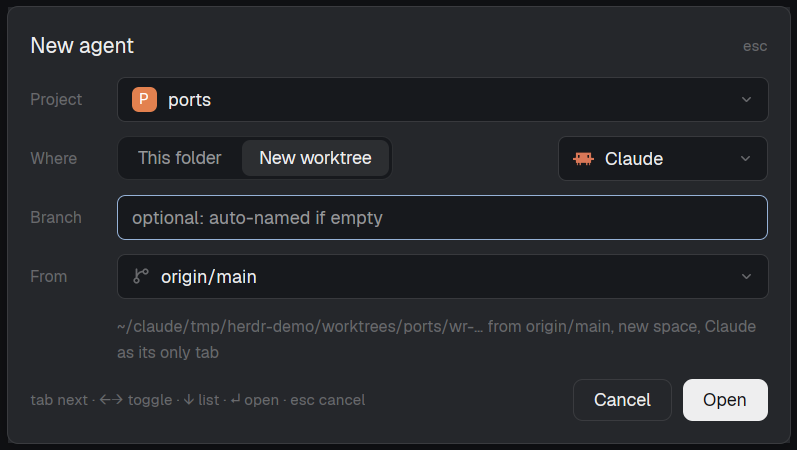
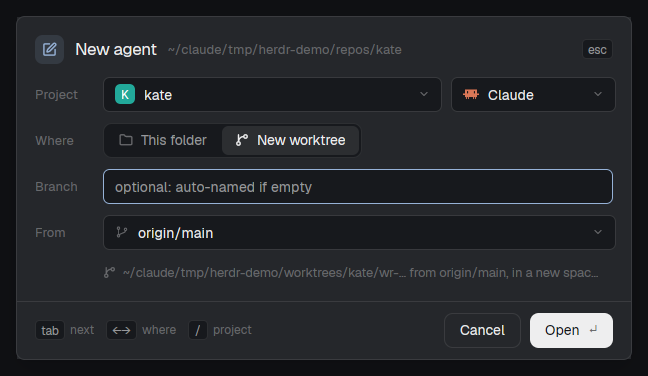
Docs: new screenshots and descriptions for the redesigned sidebar and popups
New preview.png (the gif is gone), sidebar search and progress screenshots, retaken menus, dialogs, switcher and agents list. README, RECIPE, getting-started and reference describe the search row, agent cards, progress checklist, switcher and peek keys. New card description.

diff --git a/RECIPE.md b/RECIPE.md
@@ -1,6 +1,6 @@
 # wrangler
 
-A keyboard-first Herdr layout for running coding agents across your repos. Prefix keys like tmux and the herdr TUI, plus projects: start an agent in any project, in its own worktree if you want.
+T3 Code style agent threads for Herdr, built on Herdr's own spaces. Working agents keep going in the background while the ones that need you rise to the top. Save spaces as projects, search and hop between them, and flip to any agent with a quick switcher. Prefix key bindings for anyone who loved the herdr TUI or tmux.
 
 ![wrangler](preview.png)
 
@@ -10,14 +10,15 @@ Left to right, a row on the `canvas` background, no title bar (`"titlebar": "non
 
 **Sidebar**, 342px (min 44, max 480, not resizable), background `chrome`, a column:
 
-1. **Brand**, 46px: the shipped `workspace-chrome` mod, drags the window.
-2. **Spaces** (weight 0.854, min 90). A 31px header: "Spaces" at 11.5px `dim`, a 26px `+` button on the right. Rows 30px, rounded 8, `selected` when active, `hover` otherwise. Each row: an 18px avatar (rounded 5, the space's first letter, white bold 10.5px) in one of `#22a99a`, `#e3814f`, `#5b8def`, `#8b7cf6`, `#3fae6a`, `#d9649a` (assigned least-used first, kept in shared `space.colors`; a space that isn't a saved project gets a hollow avatar instead: 1px `dim` border, `dim` letter), the name (max 150px) and, right-aligned at 11.5px `dim`, `repo · branch` only where unusual (main and master hidden, repo hidden when the name says it), then `↑n` in `ansi2` and `↓n` in `ansi1`. A worktree space is a 28px row under its main checkout's row, indented 22px with a 13px `branch` icon instead of the avatar. With other machines known, rows group under a 26px header per machine ("This computer", a `+`, a connected dot in `ansi2`, a fold chevron).
-3. **Agents** (weight 1.546, min 90), top border `border`. A 41px header: "Agents" at 11.5px `dim`; on the right a 14px `+` (tooltip "New agent") and a sort button (Priority or Grouped by space). Rows grouped under 30px section headers (Needs you, Done, Working, Idle; or one per space). In Priority, Needs you, Done and Idle (everything waiting on you) fill from the top and scroll; Working sits at the bottom of the list, showing 3 agents then a "N more" / "Show less" row. Waiting agents show time since their last change ("3m ago", "just now"); Working shows how long it has run. Hovering an Idle row adds an x ("Close agent"): `pane.close` on its pane, or `space.close` with `confirmed: true` when that pane is the only one in its space (counted from `spaces()` tab `panes`). When that space is also the only one, it runs `tab.new` in it first and closes just the pane: closing the last space quits the app. Each agent row:
-   - Top line 30px: for an agent in a saved project, a 13px badge (rounded 4, first letter, 8.5px bold white, the project's color) and the project name; otherwise the space name. Then sub-agent fold chevron, the program icon (16px), the time at 11px `dim` (Working: how long it has run, "4m"; otherwise since it stopped, "3m ago" or "just now"), replaced on hover by a pin button and, on Idle rows, an x, then the status mark.
-   - For Claude, its terminal title (the current task) on a line under it, 12px in `ansi5`.
-   - For a project agent, a branch line at 11.5px `dim`: an 11px `git-branch` icon in `accent` for a linked worktree, or `branch` in `dim` for the main checkout, then the branch (the folder name when detached).
-   - Sub-agents under it at 26px, indented 39px with tree lines.
-4. **Footer**, 69px: `workspace-chrome` with `{ "footer": true }`.
+1. **Brand**, 46px: `my-chrome`, drags the window. The block paints a left-to-right gradient (`#89b4fa38` to `#89b4fa00`, angle 90) over `chrome`; the mod draws the Herdr logo, "Herdr" semibold 14px, and the sidebar toggle.
+2. **Search**, 44px: `my-chrome` with `{ "search": true }`. A 32px search field (rounded 8, a 16px `search` icon, "Search" placeholder at 13.5px; `hover` at rest; `background` fill and an `accent` border while typing; an x clears it), then 26px buttons: a sort button (`mods/my-chrome/filter.svg`, opens the agents sort popup), `folder-plus` (`projects.new-menu`) and `square-pen` (`projects.compose`). Typing sets shared `sidebar.query`; both lists keep only the rows whose words all match (Spaces: space, project, repo, branch; Agents: project, branch, space, tab, title, program). Enter goes to the first matching agent, else space, and clears the field; Esc clears it and gives the keyboard back to the focused pane. `projects.search[:text]` (prefix `/`) focuses it, filled with `text`. In the rail it is just the `square-pen` button.
+3. **Spaces** (weight 0.854, min 90). A 30px header: "Spaces" at 11.5px `dim`, medium. Rows 30px, rounded 8, `selected` when active, `hover` otherwise. Each row: an 18px avatar (rounded 5, the space's first letter, white bold 10.5px) in one of `#22a99a`, `#e3814f`, `#5b8def`, `#8b7cf6`, `#3fae6a`, `#d9649a` (assigned least-used first, kept in shared `space.colors`; a space that isn't a saved project gets a hollow avatar instead: 1px `dim` border, `dim` letter), the name (max 150px) and, right-aligned at 11.5px `dim`, `repo · branch` only where unusual (main and master hidden, repo hidden when the name says it), then `↑n` in `ansi2` and `↓n` in `ansi1`. A worktree space is a 28px row under its main checkout's row, indented 22px with a 13px `branch` icon instead of the avatar. With other machines known, rows group under a 26px header per machine ("This computer", a `+`, a connected dot in `ansi2`, a fold chevron).
+4. **Agents** (weight 1.546, min 90), top border `border`. A 34px header: "Agents" at 11.5px `dim`, medium (sort and New agent live in the search row). Rows grouped under 30px section headers (Needs you, Done, Working, Idle; or one per space). In Priority, Needs you, Done and Idle (everything waiting on you) fill from the top and scroll; Working sits at the bottom of the list, showing 3 agents then a "N more" / "Show less" row. Waiting agents show time since their last change ("3m ago", "just now"); Working shows how long it has run. Hovering an Idle row adds an x ("Close agent"): `pane.close` on its pane, or `space.close` with `confirmed: true` when that pane is the only one in its space (counted from `spaces()` tab `panes`). When that space is also the only one, it runs `tab.new` in it first and closes just the pane: closing the last space quits the app. Each agent is a card (padding 5 x 10, rounded 10, no gap between cards, `selected` when focused, `hover` otherwise):
+   - Top line 18px at 11.5px: an 8px square (rounded 2) in the project's color (else the space's), the project name (else the space name) in `dim`, a `server` icon for another machine, a small pin when pinned; on the right, on hover, a pin button and (Idle) an x, then the state: a spinner and "Working 4m" in `working`, a "Needs you" pill in `blocked`, a `circle-check` and "Done" in `done`, or "3m ago" / "just now" in `dim`.
+   - The session line 22px: the program icon (16px), then Claude's terminal title (its current task), else a named tab, at 13.5px (`foreground`, `muted` when idle, medium when focused); the sub-agent fold chevron after it.
+   - For a project agent, a branch line at 11.5px `dim`: a 12px `branch` icon and the branch (the folder name when detached).
+   - Sub-agents under it at 26px, indented 26px with tree lines.
+5. **Footer**, 69px: `my-chrome` with `{ "footer": true }`.
 
 **Work column** (not resizable):
 
@@ -30,13 +31,14 @@ Left to right, a row on the `canvas` background, no title bar (`"titlebar": "non
 
 **Popups** (all from `projects-ui`, background `popover`):
 
-- Spaces `+` menu, 290 x 560: "Empty space", a rule, a "Projects" heading, up to 8 project rows (scrolls with the wheel; each a badge, the name, a dim summary like "2 tabs" or "3 panes", a 22px branch button on the right), a rule, "Save this space's layout to <project>" (greyed when the focused space isn't a project), "Add project…", "Add current space as project". Rows 31px, rounded 7, 12.8px text, 14px icons.
-- Space right-click menu, 340 x 260. Agent right-click menu, 280 wide, height 32 + 31 per row (+40 for the delete row): the folder as a dim heading, then the rows.
+- Menus (the new space menu 290 x 560, space right-click 340 x 260, agent right-click 280 wide and 44 + 33 per row (+43 for the delete row), project menu 260 x 290): `popover`, rows 32px (rounded 8, 13px text, 15px `muted` icons in an 18px box or a project badge, a dim hint on the right), the selected row `hover`; uppercase 10.5px semibold `dim` section labels (a path heading keeps its case); 1px `border` separators. A menu with a project list (the new space menu) has a 40px search line on top ("Type to find a project"; typing filters the list, Backspace edits, Esc clears then closes) and a footer of key chips (↵ open, tab worktree, esc close). A project row's New worktree (`branch` icon) and Remove buttons show on hover or selection only. New space menu content: "Empty space", PROJECTS (up to 8 rows, wheel scrolls, each with a dim summary like "2 tabs"), then "Save this space's layout to <project>" (greyed when the focused space isn't a project), "Add project…", "Add current space as project".
 - Projects picker, 560 wide, 0.6 of the window tall, 40px from the top: title "Projects" 15px semibold, a 36px search field with an `accent` border, 32px rows (badge, name, folder, layout summary), then "Add current space as project" and "Add folder…", and a hint line "↵ open · tab new worktree".
-- New agent, a 560 dialog: title "New agent". Rows with 54px captions: Project (a 466px dropdown), Where (a two-segment toggle "This folder" / "New worktree") with a 150px Agent dropdown to its right, and for New worktree also Branch (placeholder "optional: auto-named if empty") and From. A dim hint line says what Open will do (for example "~/code/myapp, its open space, Claude in a new tab"). Errors in `blocked`. Footer: key hints at 11px, Cancel, and a solid Open button.
-- New worktree, a 520 dialog: "New worktree of <project>", Branch and From, a note ("New branch at …", "Branch exists: checks it out at …", "Worktree exists: opens …"), Cancel and Create.
-- Delete worktree, a 460 dialog: "Delete worktree <branch>?", what it closes and removes, a red warning with the count of uncommitted changes, Cancel and a `blocked` Delete (or Force delete) button.
-- Agent switcher, 820 x 500, 40px from the top: a 36px search field ("Switch to an agent…", the agent count on the right); a list of 32px rows (up to 12 shown): a row number 1-9, status mark, project badge (else the space's avatar color), name (max 150), task in `muted`, branch with icon (max 150), age or "here". To the right a 380px preview card: a 34px header (program icon and name, the status word, branch, folder) over the last 60 lines of the terminal in the app's monospace font at 11px `muted`. Footer hints: "↵ go", "⇧↵ peek", "1-9 jump", "^o preview", "esc".
+- Dialogs share `dialog.js`: a header (a 26px icon tile in `accent` at alpha `22`, the title 15px semibold, a dim subtitle, an esc chip), form rows with 54px `dim` captions, a one-line dim note under the fields, and a footer with a top `border`: key chips on the left, a bordered Cancel and a solid primary button with a ↵ chip. Padding 16, gaps 10-12.
+- New agent, a 560 dialog (subtitle: the project folder): Project (a 308px dropdown) and Agent (150px) on one row, Where (a two-segment toggle with `folder` / `git-branch` icons), Branch (placeholder "optional: auto-named if empty") and From. Branch and From always show; in This folder mode they are dimmed stand-ins (clicking one switches to New worktree), so the dialog keeps its height. The note says what Open will do ("In its open space, Claude in a new tab."). Open swaps the form for progress: a list (rounded 10, `background`) of steps from the host's stages, Fetching <base> and Creating worktree (New worktree only), Opening space, Starting <agent>: done ones a `circle-check` in `done`, the current one a spinner on `hover`, the rest a hollow dot. A failure turns the header `blocked` ("Couldn't start the agent"), shows the error under the failed step (or on its own line when no step started) and offers Back (↵) and Close. While it runs, Close (or Esc) hides the dialog and the work goes on.
+- New worktree, a 520 dialog: "New worktree of <project>", Branch and From, a note ("New branch at …", "Branch exists: checks it out at …", "Worktree exists: opens …"), Cancel and Create; Create shows the same progress (Fetching, Creating worktree, Opening space).
+- Delete worktree (460) and Remove project (420) dialogs: the same header in `blocked`, what it does, a red line with the count of uncommitted changes, Cancel and a `blocked` Delete / Force delete / Remove button.
+- Agent switcher, 680 wide, 40px from the top: a 46px search line (16px `search` icon, "Switch to an agent…", the agent count on the right, a bottom border); a list of 36px rows (up to 10 shown, rounded 8, `hover` on the selected one): a row number 1-9, project badge (else the space's avatar color), the program icon, name (max 140) with a small "here" tag on the focused agent, task in `muted`, a `branch` icon and branch (max 150) in `dim`, then on the right the state: spinner and "Working 3m", "Needs you", `circle-check` and "Done", or a ring and "Idle 6m". Footer: key chips for ↵ go, ⇧↵ peek, 1-9 jump, esc close.
+- Peek (`projects.peek:<terminal>`): a dialog 0.86 x 0.84 of the window, a layout overlay: a 46px `projects-ui` bar (`view: "peek"`: status mark, program icon, name, the state word, "from <parent>" for a sub-agent; on the right "Go to" ("Keep as tab" without a pane) with a ⌃⇧↵ chip and "Close" with a ⌃⇧Q chip) over the terminal. The bar refreshes `globalThis.__wranglerPeek` every 100 ms; `projects.peek-go` / `peek-close` act only while it is fresh.
 
 **Prefix** (`prefix` mod): a frameless overlay over the whole window. Default "side": a 290px card in the bottom right (14px margin), rounded 10, `popover`, monospace 12px: an `accent` pill with the bound prefix key (from `keys.json`, else "prefix"), then 21px lines: group titles uppercase 10.5px `dim`, items as the key (46px, `accent`), "→", and the label. Footer "esc close" (and "^d/^u scroll" when it scrolls). "top": a grid up to 1000px (never wider than the window) at the top with groups as columns and 20px keycaps. "hint": only the "<key> prefix" tag.
 
@@ -45,7 +47,7 @@ Left to right, a row on the `canvas` background, no title bar (`"titlebar": "non
 **Agent status**, in the switcher and the Agents list:
 
 - working: a 12px `spinner.svg` in `working`, spinning every 900 ms.
-- blocked: "Needs you" pill (18px, `blocked` text on `blocked` at alpha `26`), or a 14px "!" box where space is short (priority sections, the switcher). The switcher's preview says "needs you".
+- blocked: "Needs you" pill (18px, `blocked` text on `blocked` at alpha `26`), or a 14px "!" box where space is short (priority sections, the switcher). The peek bar says "Needs you".
 - done: a 7px `done` dot ("finished").
 - idle: a 7px ring, 1.5px `idle` border.
 - Sub-agents without a pane: `error` shows as blocked, `done` as idle.
@@ -69,7 +71,7 @@ The `+` opens the projects menu. Clicking a project opens it: its open space is 
 
 **Delete worktree.** Only a click on the button deletes. It closes the spaces in the worktree, kills terminals left in it, runs `git worktree remove` (`--force` only as Force delete), then `git worktree prune`. The branch stays.
 
-**Switcher.** Order: blocked first, then most recently focused (a 250 ms poll of focus, 50 kept, saved in localStorage), the focused agent last as "here". It opens on the previous agent, so open + Enter flips between two. Typing filters (space-separated words, each a subsequence of project, space, task, branch, program and sub-agent names); ↑↓, ctrl-j/k, ctrl-n/p move; Enter focuses (`agent.focus`), shift-Enter peeks (`terminal.peek`); 1-9 with an empty filter jump; Backspace, ctrl-w, ctrl-u delete a char, a word, all; ctrl-o hides the preview; Esc closes. The preview rereads the screen every second. `projects.switch-last` flips without the popup.
+**Switcher.** Order: blocked first, then most recently focused (a 250 ms poll of focus, 50 kept, saved in localStorage), the focused agent last as "here". It opens on the previous agent, so open + Enter flips between two. Typing filters (space-separated words, each a subsequence of project, space, task, branch, program and sub-agent names); ↑↓, ctrl-j/k, ctrl-n/p move; Enter focuses (`agent.focus`), shift-Enter peeks (`projects.peek`); 1-9 with an empty filter jump; Backspace, ctrl-w, ctrl-u delete a char, a word, all; Esc clears the filter, then closes. `projects.switch-last` flips without the popup.
 
 **Prefix.** Bound by the person (for example `"ctrl-a": "mod.open:prefix"`). The next key runs its action and closes it; any unbound key, Esc or a click cancels. ctrl-d / ctrl-u and the wheel scroll the side panel when it's taller than the window. Its keys: Projects `a` switcher, `⇧O` picker, `⇧A` New agent, `g` new worktree, `⇧S` save layout; Tabs `c n p , 1-9 ⇧X`; Panes `; " hjkl ⇧←↓↑→ z x`; Spaces `o ⇧N ⇧W ⇧D`; App `b ⇧H s ? d`.
 
@@ -82,11 +84,12 @@ The `+` opens the projects menu. Clicking a project opens it: its open space is 
 ```
 root row (background canvas)
 ├─ sidebar column 342px, min 44, max 480, background chrome, resizable false
-│  ├─ brand        block  workspace-chrome                 46px, window_drag
+│  ├─ brand        block  my-chrome                        46px, window_drag, gradient
+│  ├─ search       block  my-chrome {search: true}         44px
 │  ├─ sidebar-lists column
 │  │  ├─ spaces    block  my-spaces                        weight 0.854, min 90
 │  │  └─ agents    block  my-agents                        weight 1.546, min 90
-│  └─ sidebar-footer block workspace-chrome {footer: true} 69px
+│  └─ sidebar-footer block my-chrome {footer: true}        69px
 └─ work column, resizable false
    ├─ tabs         block  tabs                             42px, window_drag
    ├─ work-body    row, padding 8, gap 8
@@ -100,16 +103,17 @@ root row (background canvas)
 **Mods:**
 
 - `projects` (`place: none`): the host. Lives in the 0px block, renders an empty `div`, and takes every `projects.*` command from `nextCommand()`: `pick`, `switch`, `switch-last`, `compose[:id[|where[|pick]]]`, `agent-start:<json>`, `branch-name:id|prompt[|model[|timeout]]`, `new-menu`, `space-menu:id[|main|plain]`, `row-menu:id`, `add-space:id`, `agent-menu:term`, `agent-copy:term|branch|path`, `agent-delete:term`, `wt-delete:term[|force]`, `add-folder`, `wt-from:spaceId[|branch[|base]]`, `save[:id]`, `add[:folder]`, `menu:id`, `open:id`, `open-new:id`, `clear:id`, `worktree[:id[|mode[|branch]]]`, `wt-create:id|branch[|base]`, `remove:id`, and overlay requests `overlay:<spec>`, `bases`, `wt-run`, `agent-run`, `agent-info`, `wt-delete-run`. `lib.js`: projects.json, layout capture and apply, checkouts, bases, worktrees. `agent.js`: agent argv from `knownAgents`, `--settings` for Claude, temp branch names, Haiku naming. `prefix.json`: its prefix group. `naming-prompt.txt`: the naming system prompt.
-- `projects-ui` (overlay popup at top, offset 40, 560 x 0.6): only draws. `props.view` picks the view and the file it loads: `picker`, `new`, `menu`, `space-menu`, `agent-menu` (`menus.js`), `worktree`, `agent-delete` (`worktree.js`), `compose` (`compose.js`), `switch` (`switcher.js`); shared helpers in `ui.js`. Reads the host's cache on `globalThis.__wranglerProjects` and sends `projects.*` commands; long work is a request with a `req` id whose `{stage, done, value, error}` the host publishes.
-- `my-spaces`: a clone of shipped `spaces` 0.1.10. Edits marked `// personal:`: header `+` runs `projects.new-menu`; right-click runs `projects.space-menu:<id>` (plus `|main` for a main checkout) for a git row, else `projects.row-menu:<id>`; plain spaces (no saved project at the main checkout, or holding the folder when not git) get a hollow avatar.
-- `my-agents`: a clone of shipped `agents` 0.1.7. Edits marked `// personal:`: the project badge and title, the branch line, the agent icon on the right, the `+` running `projects.compose`, right-click running `projects.agent-menu:<address>`, project rows for agents on other machines too (git run there) with a `server` icon after the name (tooltip "On <machine>") in place of the machine's name, the rail (compact rows) chosen by the sidebar's width (< 160px) like newer stock, not the `sidebar.collapsed` flag. Reads `data/projects/projects.json` every 30 s; `props.sortMenu` draws the sort popup.
+- `projects-ui` (overlay popup at top, offset 40, 560 x 0.6): only draws. `props.view` picks the view and the file it loads: `picker`, `new`, `menu`, `space-menu`, `agent-menu` (`menus.js`), `worktree`, `agent-delete` (`worktree.js`), `compose` (`compose.js`), `switch` (`switcher.js`), `peek` (`peek.js`, self-contained); shared helpers in `ui.js`, dialog pieces in `dialog.js` (loaded only by the dialogs: every overlay open keeps the modules it loaded). Reads the host's cache on `globalThis.__wranglerProjects` and sends `projects.*` commands; long work is a request with a `req` id whose `{stage, done, value, error}` the host publishes.
+- `my-chrome`: a clone of shipped `workspace-chrome` 0.1.11: the brand row without its own background (the layout paints the gradient) and without the picker button, the search row (`props.search`), and the footer (`props.footer`, unchanged). Icons still come from `mods/workspace-chrome/`, plus its own `filter.svg`.
+- `my-spaces`: a clone of shipped `spaces` 0.1.10. Edits marked `// personal:`: the header has no `+` (the search row has it); filtering by shared `sidebar.query`; right-click runs `projects.space-menu:<id>` (plus `|main` for a main checkout) for a git row, else `projects.row-menu:<id>`; plain spaces (no saved project at the main checkout, or holding the folder when not git) get a hollow avatar.
+- `my-agents`: a clone of shipped `agents` 0.1.7. Edits marked `// personal:`: agent cards (project and state on top, the agent icon before the session, the branch line), filtering by shared `sidebar.query`, right-click running `projects.agent-menu:<address>`, project rows for agents on other machines too (git run there) with a `server` icon after the name (tooltip "On <machine>") in place of the machine's name, the rail (compact rows) chosen by the sidebar's width (< 160px) like newer stock, not the `sidebar.collapsed` flag. Reads `data/projects/projects.json` every 30 s; `props.sortMenu` draws the sort popup.
 - `prefix` (overlay popup at top, offset 0, width 1, height 1, frame none): reads `mods/prefix/defaults.json`, every installed `mods/<name>/prefix.json`, and `data/prefix/config.json` (`show`, `defaults`, `groups`, `mods`) on each open; runs actions with `run(name, {firstArg: value})` using `commands()` for the argument name.
 
-**Shipped mods it uses:** `workspace-chrome` (brand, footer and every icon: `mods/workspace-chrome/<name>.svg` for search, chevron-down, chevron-right, spinner, git-branch, branch, plus, folder, folder-plus, layers, minus, x, square-pen, server, monitor, pin, pin-off, check, clock), `tabs`, `pane`, `files`, `changes`, `workspace-status`, `worktree` (Open and Remove worktree, `props {space, action: "open" | "remove"}`), `picker` (prefix `o`).
+**Shipped mods it uses:** `workspace-chrome` (every icon: `mods/workspace-chrome/<name>.svg` for search, chevron-down, chevron-right, spinner, circle-check, branch, plus, folder, folder-plus, layers, minus, x, square-pen, server, monitor, pin, pin-off, check, clock), `tabs`, `pane`, `files`, `changes`, `workspace-status`, `worktree` (Open and Remove worktree, `props {space, action: "open" | "remove"}`), `picker` (prefix `o`).
 
 **herdr functions:** `agents`, `terminals`, `spaces`, `panes`, `focused`, `machines`, `layout`, `window`, `run`, `commands`, `nextCommand`, `notify`, `openOverlay`, `closeOverlay`, `props`, `exec`, `hc`, `pickFolder`, `watchFolder`, `readTextFile`, `writeTextFile`, `appHome`, `home`, `knownAgents`, `shared`, `setShared`, `setAgentOrder`, `settings`, `theme`; `cx.bind_keys`, `cx.timer`, `cx.write_to_clipboard`, `localStorage`.
 
-**Commands it runs:** `space.new`, `space.select`, `space.close`, `space.rename`, `space.move`, `tab.new`, `tab.select`, `tab.close`, `pane.split`, `pane.focus`, `terminal.open`, `terminal.kill`, `terminal.peek`, `agent.focus`, `layout.resize`, `mod.open`.
+**Commands it runs:** `space.new`, `space.select`, `space.close`, `space.rename`, `space.move`, `tab.new`, `tab.select`, `tab.close`, `pane.split`, `pane.focus`, `terminal.open`, `terminal.kill`, `terminal.keep`, `agent.focus`, `layout.resize`, `mod.open`.
 
 **Programs:** `git` (rev-parse, status, for-each-ref, worktree add/list/remove/prune, fetch, check-ref-format), `hc` (`read`, `get --json`, `run --bg`, `rm`, `kill`, `machine ls --json`, `connect` for `doc.get`), `claude -p --model <naming.model>` (exec's own time limit), `sh`, `readlink -f`, `mkdir`, `test`, `sleep`. The hook `mods/projects/hooks/rename-branch.sh` (bash) uses `git`, `jq`, `git hash-object` for lock keys, `timeout`/`gtimeout` or a kill fallback, `setsid` or `nohup`, `claude`, `herdr-app ls` and `herdr-app do space.rename`.
 
@@ -133,17 +137,17 @@ root row (background canvas)
 - **Close, don't quit.** Pressing ctrl-c to end an agent races its exit: an extra press lands in the new shell (raw `9;5u` text under the kitty keyboard protocol, or a ^C that interrupts the shell's rc file). Closing the pane avoids it. `pane.close` refuses the last pane of a space; close the space instead, unless it's the last space (the app quits).
 - **Copy, don't symlink.** `image()` fails on a symlinked file and Herdr remembers the failure for that path until restart (an empty layout card in Settings). Herdr also doesn't watch symlink targets, so edits wouldn't reload anyway.
 - **Clones go stale.** `my-spaces` and `my-agents` don't get Herdr's later fixes to `spaces` and `agents`; re-clone and re-apply the `// personal:` edits.
-- **Limits:** branch names cut to 64 chars, slugs at most 5 words, naming timeout 20 s, prompt sent to the hook cut to 4000 chars, hook locks pruned after 30 days, tab titles from a prompt at most 28 chars, MRU 50 agents, 50 request states kept, menus show 8 rows, dropdowns 8 (Project 7, Agent 6), switcher 12 rows, Agents Working section 3 rows (then "N more"), preview 60 lines, bases refetched when older than 30 s, host warms caches every 2 s.
+- **Limits:** branch names cut to 64 chars, slugs at most 5 words, naming timeout 20 s, prompt sent to the hook cut to 4000 chars, hook locks pruned after 30 days, tab titles from a prompt at most 28 chars, MRU 50 agents, 50 request states kept, menus show 8 rows, dropdowns 8 (Project 7, Agent 6), switcher 10 rows, Agents Working section 3 rows (then "N more"), bases refetched when older than 30 s, host warms caches every 2 s.
 - **Assumes:** git with the configured remote (default `origin`; bases are `HEAD` or `<remote>/<x>`), `claude` on the PATH for naming, `jq` for the hook, the shipped mods listed above.
 
 ## Done when
 
 - `herdr-app check` passes for `projects`, `projects-ui`, `my-spaces`, `my-agents`, `prefix`, and `layout.switch` to `wrangler` shows the sidebar, tabs, status bar and no visible projects block.
-- Spaces `+` > Add current space as project in a repo adds it to `data/projects/projects.json` with `defaultBase` from `origin/HEAD`, and the project shows in the menu with a colored badge.
+- Search row `folder-plus` > Add current space as project in a repo adds it to `data/projects/projects.json` with `defaultBase` from `origin/HEAD`, and the project shows in the menu with a colored badge.
 - Splitting that space and running a program, then prefix `⇧S`, toasts "Saved layout to <name>"; closing the space and clicking the project rebuilds the same tabs, splits and program.
 - Prefix `g`, a branch name and an `origin/*` base makes `<worktreeRoot>/<repo>/<branch>` and opens it in a new space listed under the main checkout with a branch icon.
 - New agent with New worktree and an empty Branch starts Claude on `wr/<8 hex>`; after the first prompt the branch, the space name and the Agents branch line change to a `<type>/<slug>` name.
-- The Agents row for that agent shows the project badge and name, Claude's task in `ansi5`, and the branch with an `accent` `git-branch` icon.
+- The Agents card for that agent shows the project name with its color, Claude's task after the Claude icon, and the branch.
 - Right-click on that agent > Delete worktree… closes its space, removes the folder and keeps the branch; with an uncommitted change the button reads Force delete.
 - In Priority, a working agent sits at the bottom under Working with a spinner and its run time; when it finishes it moves to Done at the top with "just now"; after you look at it and leave, it moves to Idle. Hovering it there shows an x; clicking it closes the agent's pane, or its space when that was the only pane. With 4 working agents, Working shows 3 and a "1 more" row.
 - Prefix `a` opens the switcher on the previously focused agent; Enter goes there; opening it again and pressing Enter goes back. A blocked agent sorts first with the "!" mark.

diff --git a/docs/getting-started.md b/docs/getting-started.md
@@ -14,7 +14,9 @@ cp layouts/* ~/.config/herdr-app/layouts/
 herdr-app do layout.switch '{"name":"wrangler"}'
 ```
 
-The sidebar now has two lists: **Spaces** on top, **Agents** below. Both have a **+** in their header.
+The sidebar has a search row on top, then two lists: **Spaces** and **Agents**. Typing in **Search** filters both lists; Enter jumps to the first match, Esc clears it (prefix `/` focuses it). The buttons next to it sort the agents, open the new space / project menu (folder with a +) and start a new agent (pen).
+
+![Sidebar search filtering spaces and agents by "kate"](images/sidebar-search.png)
 
 ## 2. Add a project
 
@@ -24,19 +26,19 @@ Open a space in your repo, then right-click it and pick **Add as project**:
 
 ![Right-click a space, Add as project](images/add-as-project.png)
 
-Or use the Spaces **+** menu: **Add project...** picks a folder, **Add current space as project** adds the one you're in. Once added, projects are listed in that menu with a colored badge:
+Or use the new space menu (the folder-with-a-+ button next to Search): **Add project...** picks a folder, **Add current space as project** adds the one you're in. Once added, projects are listed in that menu with a colored badge:
 
 ![The Spaces + menu listing three projects](images/plus-menu.png)
 
 Click a project to open it. Hover a project for an **x** that removes it from the list (after a confirm; your files, worktrees and branches stay). Right-click it for more: open in a new space, clear its saved layout. If a space is already open at that repo it's selected; otherwise a new one opens. `ctrl-shift-j` (or prefix `⇧O`) opens the same list as a picker you can type to filter.
 
-**Save a layout.** Arrange a space the way you like (tabs, splits, an editor, a dev server), then pick **Save this space's layout to ...** from the **+** menu, or press prefix `⇧S`. Next time the project opens, it opens like that.
+**Save a layout.** Arrange a space the way you like (tabs, splits, an editor, a dev server), then pick **Save this space's layout to ...** from that menu, or press prefix `⇧S`. Next time the project opens, it opens like that.
 
 ## 3. Make a worktree
 
 A worktree is a second checkout of the same repo on its own branch, so you (or an agent) can work on it without touching your main checkout.
 
-Press prefix `g`, click the branch icon next to a project in the **+** menu, or right-click a space and pick **New worktree**:
+Press prefix `g`, click the branch icon next to a project in that menu, or right-click a space and pick **New worktree**:
 
 ![New worktree dialog with a branch name and base](images/new-worktree.png)
 
@@ -44,7 +46,7 @@ Type a **Branch** and pick **From**: the current HEAD or any remote branch (fetc
 
 ## 4. Start an agent
 
-Click **+** in the Agents header, or press `ctrl-shift-g` (prefix `⇧A`):
+Click the pen next to Search, or press `ctrl-shift-g` (prefix `⇧A`):
 
 ![New agent dialog: project, where, agent, branch, base](images/new-agent.png)
 
@@ -53,7 +55,11 @@ Click **+** in the Agents header, or press `ctrl-shift-g` (prefix `⇧A`):
 - **Agent:** any coding agent Herdr finds installed (Claude, Codex, OpenCode, ...).
 - **Branch:** leave it empty and wrangler makes a temporary one.
 
-Press `/` to jump to the Project list and type to filter it. Press **Open**, then give the agent its first message in the new tab.
+Press `/` to jump to the Project list and type to filter it. Press **Open**: the dialog turns into a checklist of what it's doing (fetching the base, creating the worktree, opening the space, starting the agent). Close it any time; the work keeps going. If a step fails, the error shows under it and **Back** returns to the form.
+
+![New agent progress: fetched origin/main, creating the worktree](images/progress.png)
+
+Then give the agent its first message in the new tab.
 
 ## 5. Branches name themselves
 
@@ -63,15 +69,15 @@ With an empty Branch, a new worktree starts on a temp name like `wr/5d81d828`. W
 
 Each Agents row shows the project, what the agent is working on, and its branch. This needs the `claude` CLI; turn it off with `"naming": { "enabled": false }` in the [settings](reference.md#settings).
 
-The Agents list (Priority sort, the clock button in its header) keeps the agents waiting on you at the top: **Needs you** first, then **Done**, then **Idle**, each with how long ago it stopped ("3m ago"). **Working** agents sit at the bottom with how long they've been running; it shows three, then an "N more" row. Hover an idle agent for an **x** that closes its pane (and its space, when that was the only pane there).
+The Agents list (Priority sort, from the sort button next to Search) keeps the agents waiting on you at the top: **Needs you** first, then **Done**, then **Idle**, each with how long ago it stopped ("3m ago"). **Working** agents sit at the bottom with how long they've been running; it shows three, then an "N more" row. Hover an idle agent for an **x** that closes its pane (and its space, when that was the only pane there).
 
 ![Agents list: Needs you, Done and Idle on top, Working at the bottom](images/agents-list.png)
 
 ## 6. Switch between agents
 
-Press `ctrl-shift-a` (prefix `a`). Agents that need you come first, then the ones you used most recently. The right side previews the selected agent's screen, live:
+Press `ctrl-shift-a` (prefix `a`). Agents that need you come first, then the ones you used most recently. Enter goes to one; shift-Enter peeks at it over the window, with **Go to** (`ctrl-shift-enter`) and **Close** (`ctrl-shift-q`) on its bar:
 
-![Agent switcher with a live preview](images/switcher.png)
+![Agent switcher](images/switcher.png)
 
 Type to filter, `1`-`9` to jump, Enter to go there. It opens on your previous agent, so the key then Enter flips between your last two.
 

diff --git a/docs/reference.md b/docs/reference.md
@@ -11,6 +11,9 @@ Every action is a `projects.*` command, usable in `keys.json` or with `herdr-app
 | `projects.pick` | projects picker |
 | `projects.compose[:id[\|where]]` | New agent dialog; `where` is `local` or `worktree` |
 | `projects.switch` / `projects.switch-last` | agent switcher / flip to the previous agent without the popup |
+| `projects.peek:terminal` / `projects.peek-go` / `projects.peek-close` | peek at a terminal over the window / go to the peeked one / close the peek |
+
+Any command that opens a menu (`space-menu`, `row-menu`, `agent-menu`, `menu`, `new-menu`) takes an `@x,y` suffix (window px, e.g. `projects.agent-menu:t7@120,340`) and opens the menu there; the sidebar sends the click position.
 | `projects.worktree[:id]` | new worktree dialog; no id: the focused space's repo |
 | `projects.wt-create:id\|branch[\|base]` | make and open a worktree, no dialog; base `HEAD` or `<remote>/<branch>` |
 | `projects.save[:id]` | save the focused space's layout to its project (or to `id`) |
@@ -18,7 +21,8 @@ Every action is a `projects.*` command, usable in `keys.json` or with `herdr-app
 | `projects.open:id` / `projects.open-new:id` | open a project / always in a new space |
 | `projects.menu:id` | a project's menu (also right-click a project in the `+` menu): Open, Open new space anyway, Open in new worktree, Save layout here, Clear layout, Remove project |
 | `projects.clear:id` / `projects.remove:id` | drop a project's saved layout / remove the project |
-| `projects.new-menu` | the Spaces header `+` menu |
+| `projects.new-menu` | the new space / project menu (folder-plus in the sidebar search row) |
+| `projects.search[:text]` | focus the sidebar search (prefix `/`), filled with `text` |
 | `projects.agent-start:<json>` | start an agent with no dialog (below) |
 | `projects.branch-name:id\|prompt[\|model[\|timeout]]` | show the branch name the hook would pick for a prompt |
 | `projects.refresh[:folder]` | reread the cached git checkouts in `folder` (all without one); the rename hook runs it |
@@ -114,7 +118,7 @@ The prompt is [`mods/projects/naming-prompt.txt`](../mods/projects/naming-prompt
 
 ## What it runs
 
-`git` (including `git fetch` for a remote base), `claude -p` for branch names (network), `hc` (screen previews, background reads), `herdr-app` (from the hook, to rename spaces) and small shell helpers (`sh`, `readlink`, `mkdir`, `test`, `sleep`).
+`git` (including `git fetch` for a remote base), `claude -p` for branch names (network), `hc` (background reads), `herdr-app` (from the hook, to rename spaces) and small shell helpers (`sh`, `readlink`, `mkdir`, `test`, `sleep`).
 
 ## Layout
 

diff --git a/README.md b/README.md
@@ -1,10 +1,10 @@
 # wrangler
 
-Projects, git worktrees and coding agents for the [Herdr](https://herdr.dev) desktop app.
+T3 Code style agent threads for the [Herdr](https://herdr.dev) desktop app, built on Herdr's own spaces. Working agents keep going in the background while the ones that need you rise to the top.
 
 Made for anyone coming from the herdr TUI or tmux who wants the same keyboard-first flow in the app: a prefix key, then a single key for tabs, panes, spaces, projects and agents, with a panel showing what's available. Projects and the agent sidebar take their cue from [T3 Code](https://github.com/pingdotgg/t3code): repos saved as projects that reopen the way you left them, a New agent dialog that can put each agent in its own worktree, and a sidebar showing each agent's project, task and branch at a glance.
 
-![wrangler](preview.gif)
+![wrangler](preview.png)
 
 **[Getting started](docs/getting-started.md)** walks through every feature with screenshots.
 
@@ -14,8 +14,9 @@ Made for anyone coming from the herdr TUI or tmux who wants the same keyboard-fi
 - **Worktrees** from HEAD or any remote branch, nested under their project in the Spaces list.
 - **New agent** dialog: any installed agent (Claude, Codex, OpenCode, ...), in the project folder or a fresh worktree.
 - **Auto-named branches**: Claude's first prompt turns a temp `wr/…` branch into `feat/…`, `fix/…`.
+- **Sidebar search** that filters spaces and agents as you type; Enter jumps to the first match.
 - **Agents list** sorted by who's waiting: Needs you, Done and Idle on top with how long ago they stopped, Working pinned at the bottom with how long it's been running. Hover an idle agent to close it.
-- **Agent switcher** with a live preview, the agents that need you first.
+- **Agent switcher** with the agents that need you first, and a peek at any of them without leaving where you are.
 - **Prefix keys** (optional), which-key style.
 
 ## Requirements
@@ -47,6 +48,7 @@ Nothing is bound for you. Copy what you want from [`keys.json`](keys.json) into 
 | `ctrl-shift-j` | projects picker |
 | `ctrl-shift-g` | New agent |
 | `ctrl-shift-a` | agent switcher |
+| `ctrl-shift-enter` / `ctrl-shift-q` | in a peek: go to the agent / close the peek |
 | `ctrl-alt-a` | sends a real `ctrl-a` to the terminal |
 
 The prefix is whichever key you bind to `mod.open:prefix`. Leave it unbound (or don't copy `mods/prefix`) to go without. After the prefix:
